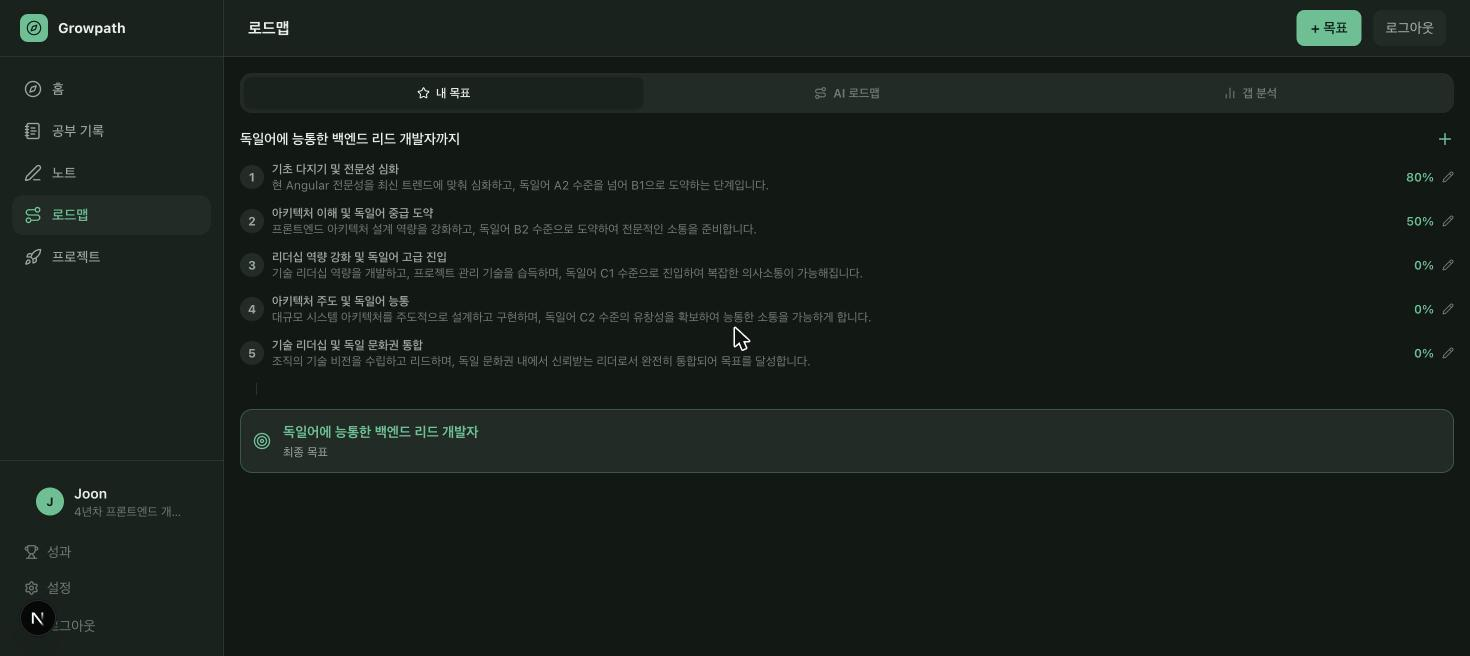
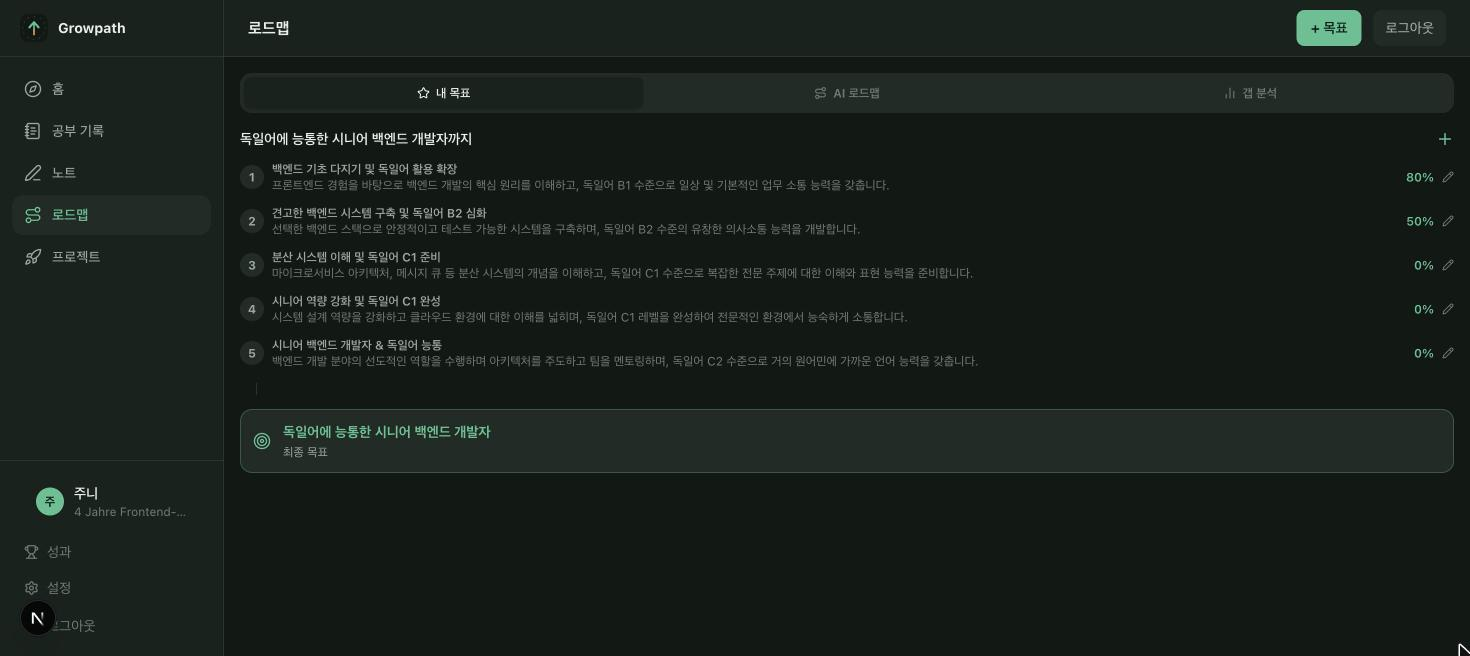
feat(landing): live screen recordings for the KO walkthrough (2/5 steps)
Steps 2 and 3 were still frames, which read as lifeless for what
they're supposed to sell - "AI actually generates a roadmap" and "a
real tutor conversation happens" are both motion, not a single state.
Re-recorded both as real screen captures:
- step 2: typing a fresh goal, hitting generate, watching the AI
  roadmap come back
- step 3: an actual German conversation happening turn by turn in
  the AI tutor

Also fixed the mouse-cursor-in-the-screenshot issue on the remaining
static steps (1/4/5) - it's an artifact of how the screenshot tool
renders the OS cursor at its last position, not something exportable
GIF options control, so the fix is hovering the pointer off-frame
before capturing rather than leaving it wherever the last click
happened to land.

LandingPreview now renders every step through a plain <img> (not
next/image, which drops GIF animation without extra config) and
tracks a file extension per step so jpg and gif can mix.

KO only for now - pending approval before replicating to en/de.

diff --git a/src/components/landing/LandingPreview.tsx b/src/components/landing/LandingPreview.tsx
@@ -2,13 +2,23 @@
 
 import { ChevronLeft, ChevronRight } from 'lucide-react';
 import { useLocale, useTranslations } from 'next-intl';
-import Image from 'next/image';
 import { useEffect, useState } from 'react';
 
-const STEP_SLUGS = ['step-1-goal', 'step-2-roadmap', 'step-3-record', 'step-4-recommend', 'step-5-achievements'];
+// Steps 2 & 3 are real screen recordings (goal -> AI roadmap generating,
+// an actual tutor conversation happening) so the walkthrough shows the app
+// doing something instead of five frozen screens; the rest are clean static
+// shots. next/image can't preserve GIF animation without extra config, so
+// every step renders through a plain <img> for consistency.
+const STEP_FILES = [
+  { slug: 'step-1-goal', ext: 'jpg' },
+  { slug: 'step-2-roadmap', ext: 'gif' },
+  { slug: 'step-3-record', ext: 'gif' },
+  { slug: 'step-4-recommend', ext: 'jpg' },
+  { slug: 'step-5-achievements', ext: 'jpg' },
+];
 const SUPPORTED_LOCALES = ['ko', 'en', 'de'];
 
-const STEP_COUNT = STEP_SLUGS.length;
+const STEP_COUNT = STEP_FILES.length;
 const AUTO_ADVANCE_MS = 5000;
 const TICK_MS = 50;
 
@@ -29,7 +39,7 @@ export default function LandingPreview() {
   const t = useTranslations('landing');
   const locale = useLocale();
   const imageLocale = SUPPORTED_LOCALES.includes(locale) ? locale : 'en';
-  const stepImages = STEP_SLUGS.map((slug) => `/landing-steps/${slug}-${imageLocale}.jpg`);
+  const stepImages = STEP_FILES.map(({ slug, ext }) => `/landing-steps/${slug}-${imageLocale}.${ext}`);
   const [step, setStep] = useState(0);
   const [paused, setPaused] = useState(false);
   const [progress, setProgress] = useState(0);
@@ -76,14 +86,12 @@ export default function LandingPreview() {
         <PreviewBar />
         <div className="relative aspect-[1470/656] bg-surf-2">
           {stepImages.map((src, i) => (
-            <Image
+            // eslint-disable-next-line @next/next/no-img-element -- next/image drops GIF animation without extra config; plain img keeps steps 2/3's screen recordings moving.
+            <img
               key={src}
               src={src}
               alt={steps[i].title}
-              fill
-              priority={i === 0}
-              sizes="(max-width: 768px) 100vw, 768px"
-              className={`object-cover transition-opacity duration-500 ${i === step ? 'opacity-100' : 'opacity-0'}`}
+              className={`absolute inset-0 w-full h-full object-cover transition-opacity duration-500 ${i === step ? 'opacity-100' : 'opacity-0'}`}
             />
           ))}
         </div>
